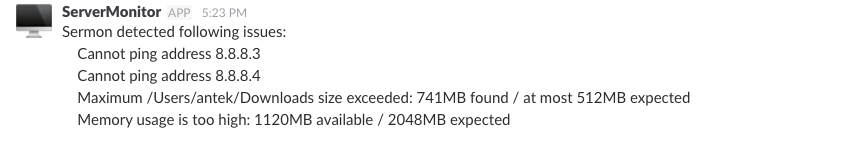
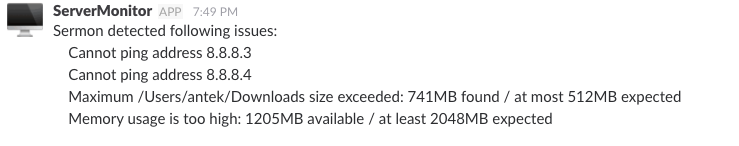
Updated notification message

diff --git a/lib/messages/messages.rb b/lib/messages/messages.rb
@@ -41,7 +41,7 @@ module Sermon
     end
 
     def self.free_mem_error(free, min)
-      "Memory usage is too high: #{free}MB available / #{min}MB expected"
+      "Memory usage is too high: #{free}MB available / at least #{min}MB expected"
     end
 
     def self.free_space_error(file, file_size, min_size)
